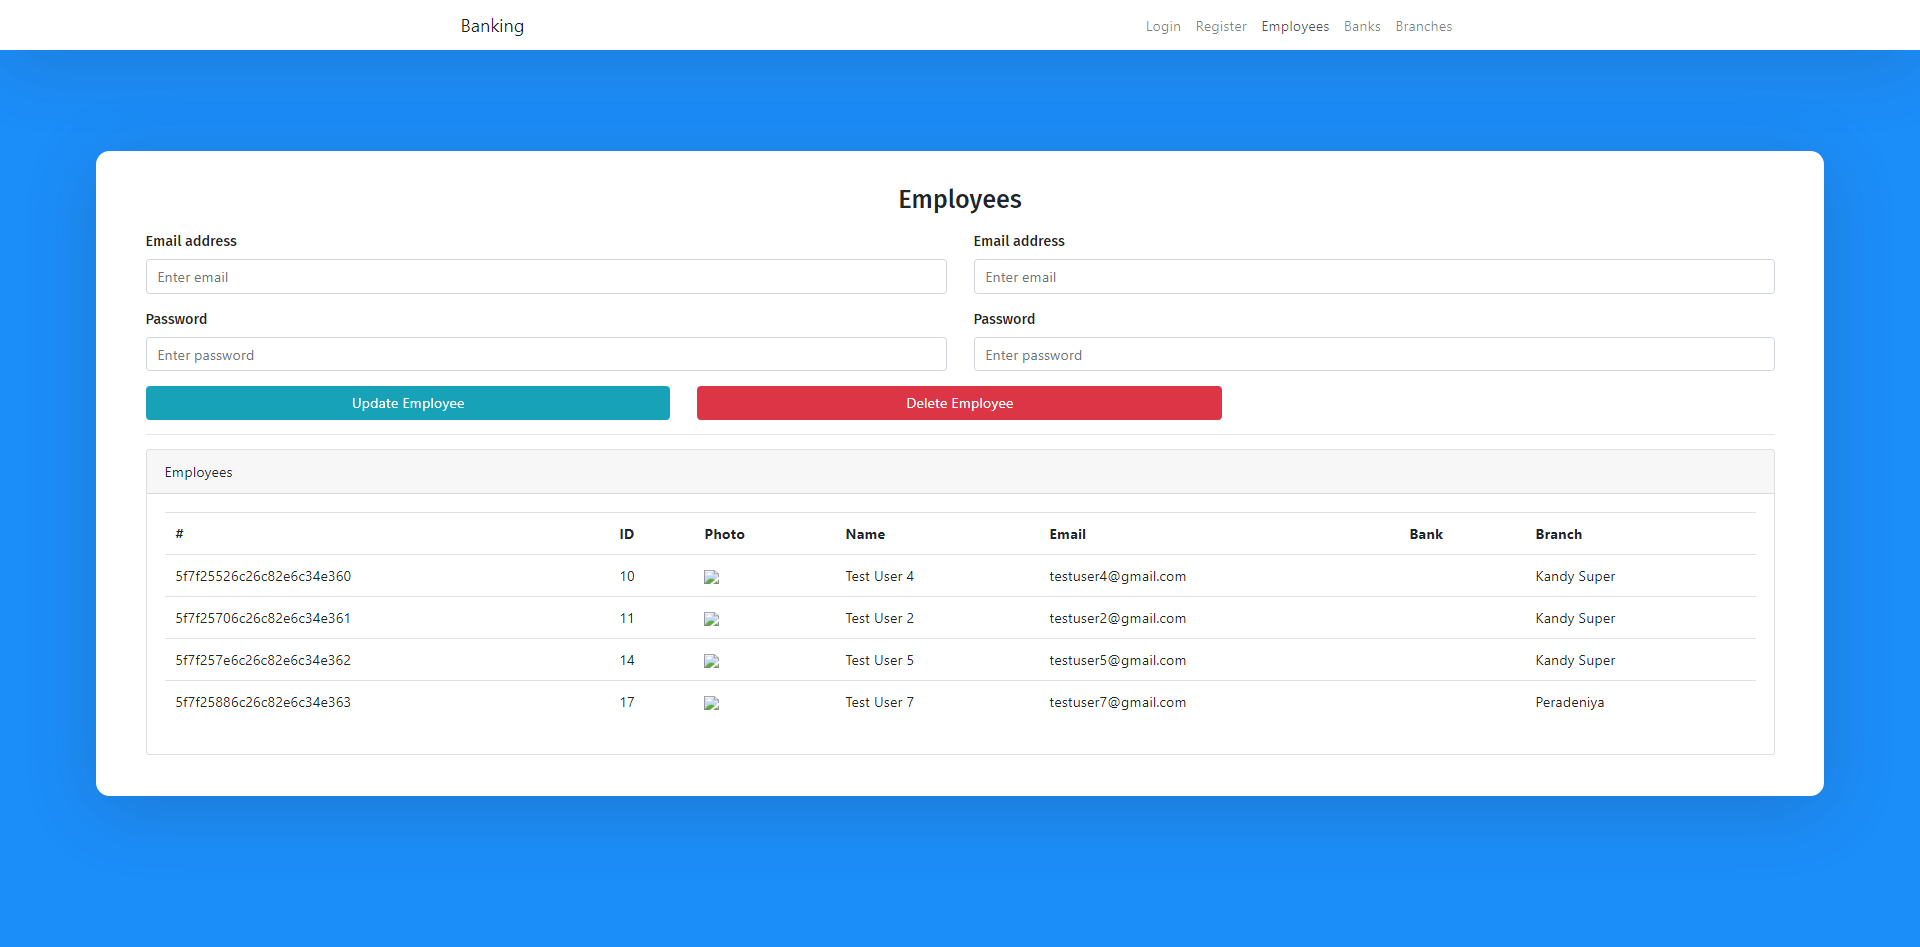
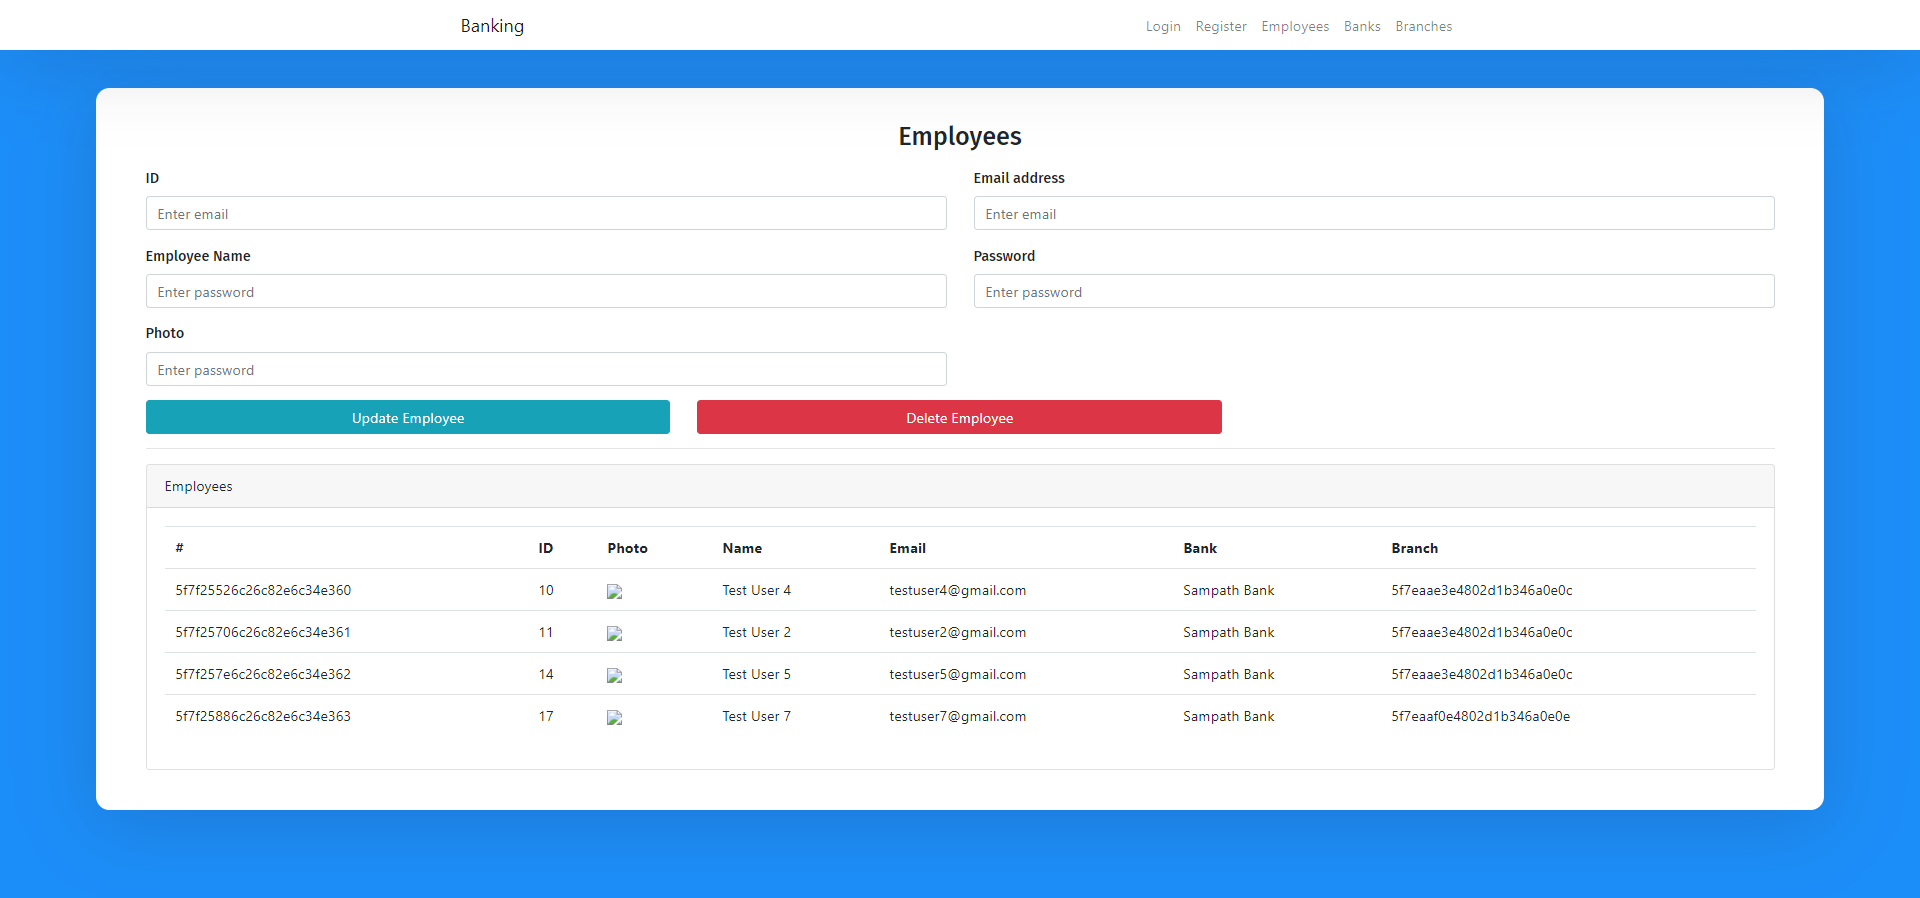
employee UI

diff --git a/Frontend/src/components/employee.component.js b/Frontend/src/components/employee.component.js
@@ -11,14 +11,110 @@ export default class Employee extends Component {
     constructor(props) {
         super(props);
         this.state = {
-            employees : []
+            _id: "",
+            emp_name : "",
+            emp_photo : "",
+            emp_email  : "",
+            emp_id : "",
+            bank_branch : "",
+            bank : "",
+            employees : [],
+            banks : [],
+            branches : []
         };
+
+        this.handleSubmit = this.handleSubmit.bind(this);
+        this.handleChangeEmployeeId = this.handleChangeEmployeeId.bind(this);
+        this.handleChangeEmployeeName = this.handleChangeEmployeeName.bind(this);
+        this.handleChangeBank = this.handleChangeBank.bind(this);
+        this.handleChangeBankBranch = this.handleChangeBankBranch.bind(this);
+        this.handleChangePhoto = this.handleChangePhoto.bind(this);
+        this.handleChangeEmployeePassword = this.handleChangeEmployeePassword.bind(this);
+        this.handleChangeEmployeeEmail = this.handleChangeEmployeeEmail.bind(this);
+        this.handleChange_id = this.handleChange_id.bind(this);
 
     }
 
 
-    // fill list of banks available
+    // handle change bank
+    handleChangeBank(event) {
+        this.setState({
+            bank: event.target.value
+        });
+    }
+
+    // handle change email
+    handleChangeEmployeeEmail(event) {
+        this.setState({
+            emp_email: event.target.value
+        });
+    }
+
+    // handle change _id
+    handleChange_id(event) {
+        this.setState({
+            _id: event.target.value
+        });
+    }
+
+    // handle change branch
+    handleChangeBankBranch(event) {
+        this.setState({
+            banks_branch: event.target.value
+        });
+    }
+
+    // handle change photo
+    handleChangePhoto(event) {
+        this.setState({
+            emp_photo: event.target.value
+        });
+    }
+
+
+    // handle change name
+    handleChangeEmployeeName(event) {
+        this.setState({
+            emp_name: event.target.value
+        });
+    }
+
+
+    // handle change id
+    handleChangeEmployeeId(event) {
+        this.setState({
+            emp_id: event.target.value
+        });
+    }
+
+
+    // handle change pw
+    handleChangeEmployeePassword(event) {
+        this.setState({
+            emp_password: event.target.value
+        });
+    }
+
+    // fill the table of branches and fill banks drop down
     componentDidMount() {
+        axios.get(`${apiUrl}/branch/`)
+            .then(res => {
+                const branches = res.data.data;
+                this.setState({ branches: branches});
+            })
+            .catch(err => {
+                console.log('branch data retrieval error ' + err.toString());
+            })
+
+        axios.get(`${apiUrl}/bank/`)
+            .then(res => {
+                const banks = res.data.data;
+                this.setState({ banks: banks});
+            })
+            .catch(err => {
+                console.log('bank data retrieval error ' + err.toString());
+            })
+
         axios.get(`${apiUrl}/employee/`)
             .then(res => {
                 const emps = res.data.data;
@@ -27,6 +123,22 @@ export default class Employee extends Component {
             .catch(err => {
                 console.log('bank data retrieval error ' + err.toString());
             })
+    }
+
+    //submit data
+    handleSubmit(event) {
+        event.preventDefault();
+        axios.put(`${apiUrl}/employee/${this.state._id}`, {
+            branch_id: this.state.branch_id,
+            branch_name: this.state.branch_name,
+            bank: this.state.bank
+        })
+            .then((response) => {
+                response.json();
+                console.log('Branch data submitted ');
+            }, (error) => {
+                console.log('Branch data submission error ' + this.state.branch_name + error.toString());
+            });
     }
 
     render() {
@@ -40,30 +152,36 @@ export default class Employee extends Component {
                     <div className="row">
                         <div className="col-6">
                             <div className="form-group">
-                                <label>Email address</label>
-                                <input type="email" name="emp_email"  className="form-control" placeholder="Enter email" />
+                                <label>ID</label>
+                                <input type="email" name="emp_email"  required value={this.state.branch_id} onChange={e => this.handleChangeEmployeeId(e)}  className="form-control" placeholder="Enter email" />
                             </div>
 
                             <div className="form-group">
-                                <label>Password</label>
-                                <input type="password" name="emp_password" className="form-control" placeholder="Enter password" />
+                                <label>Employee Name</label>
+                                <input type="password" name="emp_password"  required value={this.state.branch_id} onChange={e => this.handleChangeEmployeeName(e)}  className="form-control" placeholder="Enter password" />
                             </div>
+
+                            <div className="form-group">
+                                <label>Photo</label>
+                                <input type="password" name="emp_password"  required value={this.state.emp_photo} onChange={e => this.handleChangePhoto(e)}  className="form-control" placeholder="Enter password" />
+                            </div>
+
                         </div>
                         <div className="col-6">
                             <div className="form-group">
                                 <label>Email address</label>
-                                <input type="email" name="emp_email"  className="form-control" placeholder="Enter email" />
+                                <input type="email" name="emp_email"  required value={this.state.emp_email} onChange={e => this.handleChangeEmployeeEmail(e)}  className="form-control" placeholder="Enter email" />
                             </div>
 
                             <div className="form-group">
                                 <label>Password</label>
-                                <input type="password" name="emp_password" className="form-control" placeholder="Enter password" />
+                                <input type="password" name="emp_password"  required value={this.state.emp_password} onChange={e => this.handleChangeEmployeePassword(e)}  className="form-control" placeholder="Enter password" />
                             </div>
                         </div>
                     </div>
                     <div className="row">
                         <div className="col-4">
-                            <button type="submit" className="btn btn-info btn-block">Update Employee</button>
+                            <button type="submit"  onClick={this.handleSubmit}  className="btn btn-info btn-block">Update Employee</button>
                         </div> <div className="col-4">
                         <button type="submit" className="btn btn-danger btn-block">Delete Employee</button>
                     </div>
@@ -94,11 +212,11 @@ export default class Employee extends Component {
                                 return <tr key={emp._id}>
                                     <td>{emp._id}</td>
                                     <td>{emp.emp_id}</td>
-                                    <td><img src={emp.emp_photo.toString()} width="64px" /></td>
+                                    <td><img src={emp.emp_photo} width="64px" /></td>
                                     <td>{emp.emp_name}</td>
                                     <td>{emp.emp_email}</td>
-                                    <td>{emp.bank}</td>
-                                    <td>{emp.bank_branch.branch_name}</td>
+                                    <td>{emp.bank.bank_name}</td>
+                                    <td>{emp.bank_branch}</td>
                                 </tr> ;
                             })}
 
